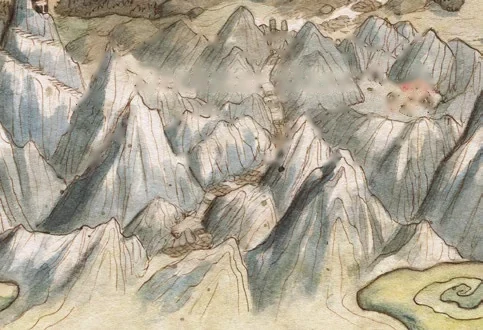
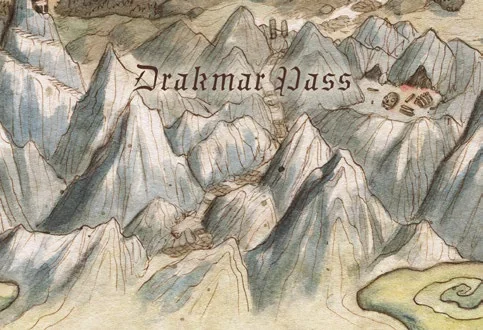
Dragonbane: Titelbilder wieder im Original (mit Kartennamen)

diff --git a/sw.js b/sw.js
@@ -1,6 +1,6 @@
 // Offline-Cache. Bei jeder Änderung an index.html die Version erhöhen,
 // damit installierte Apps die neue Fassung laden.
-const VERSION = "v754sp";
+const VERSION = "v755sp";
 const CACHE = "erzaehler-tafel-" + VERSION;
 const FILES = [
   "./",
